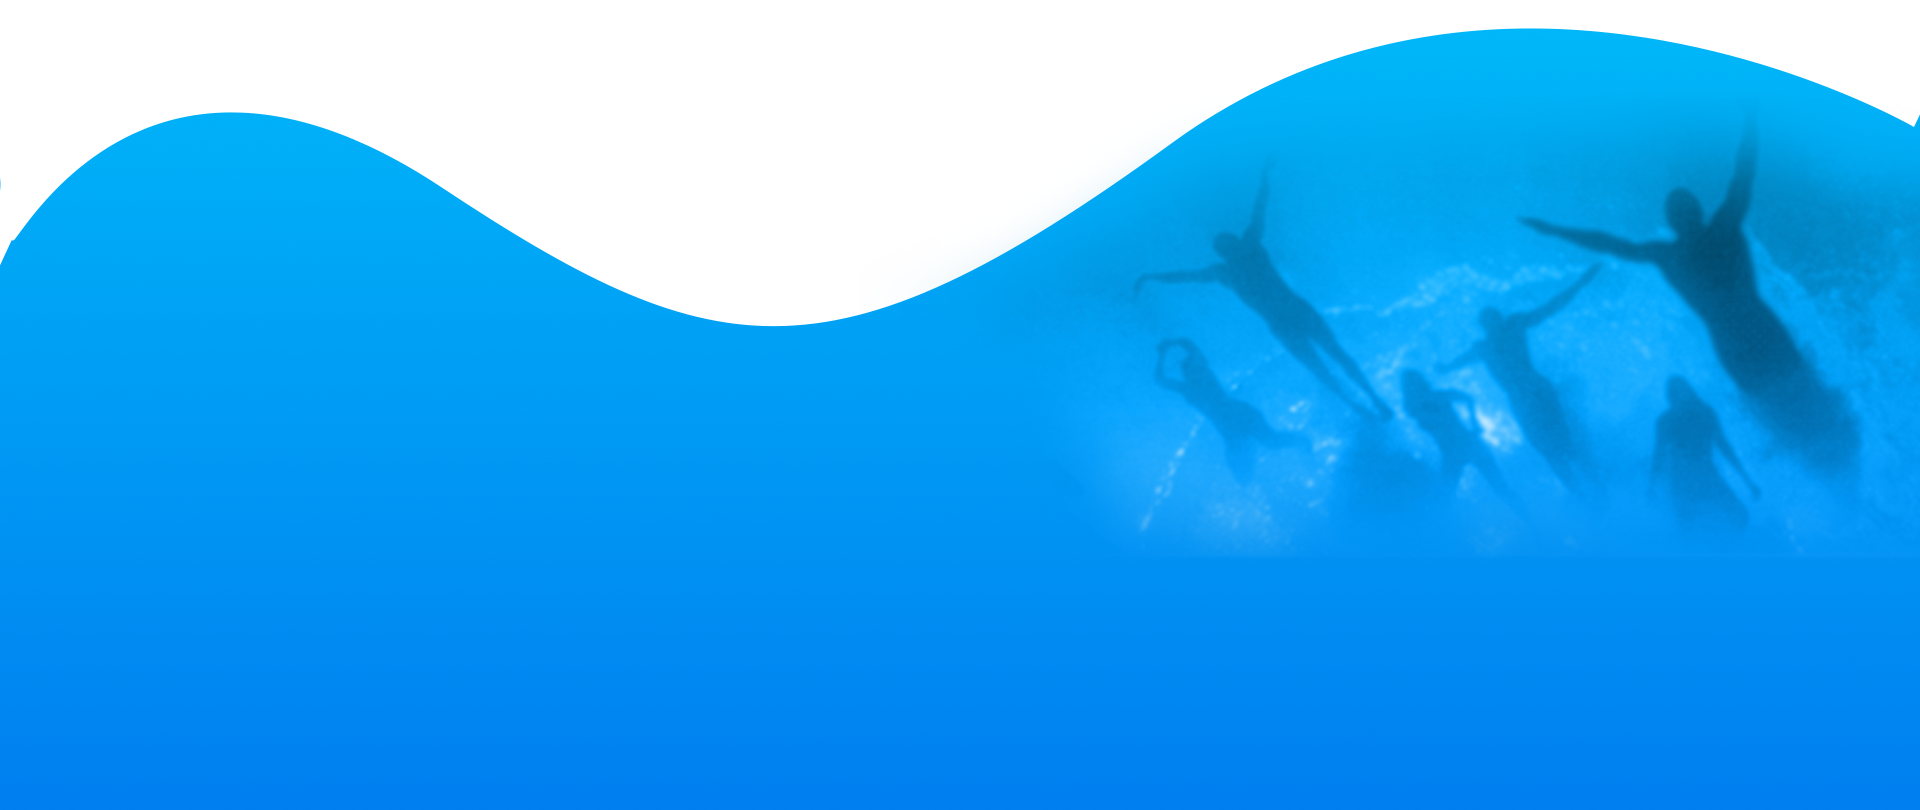
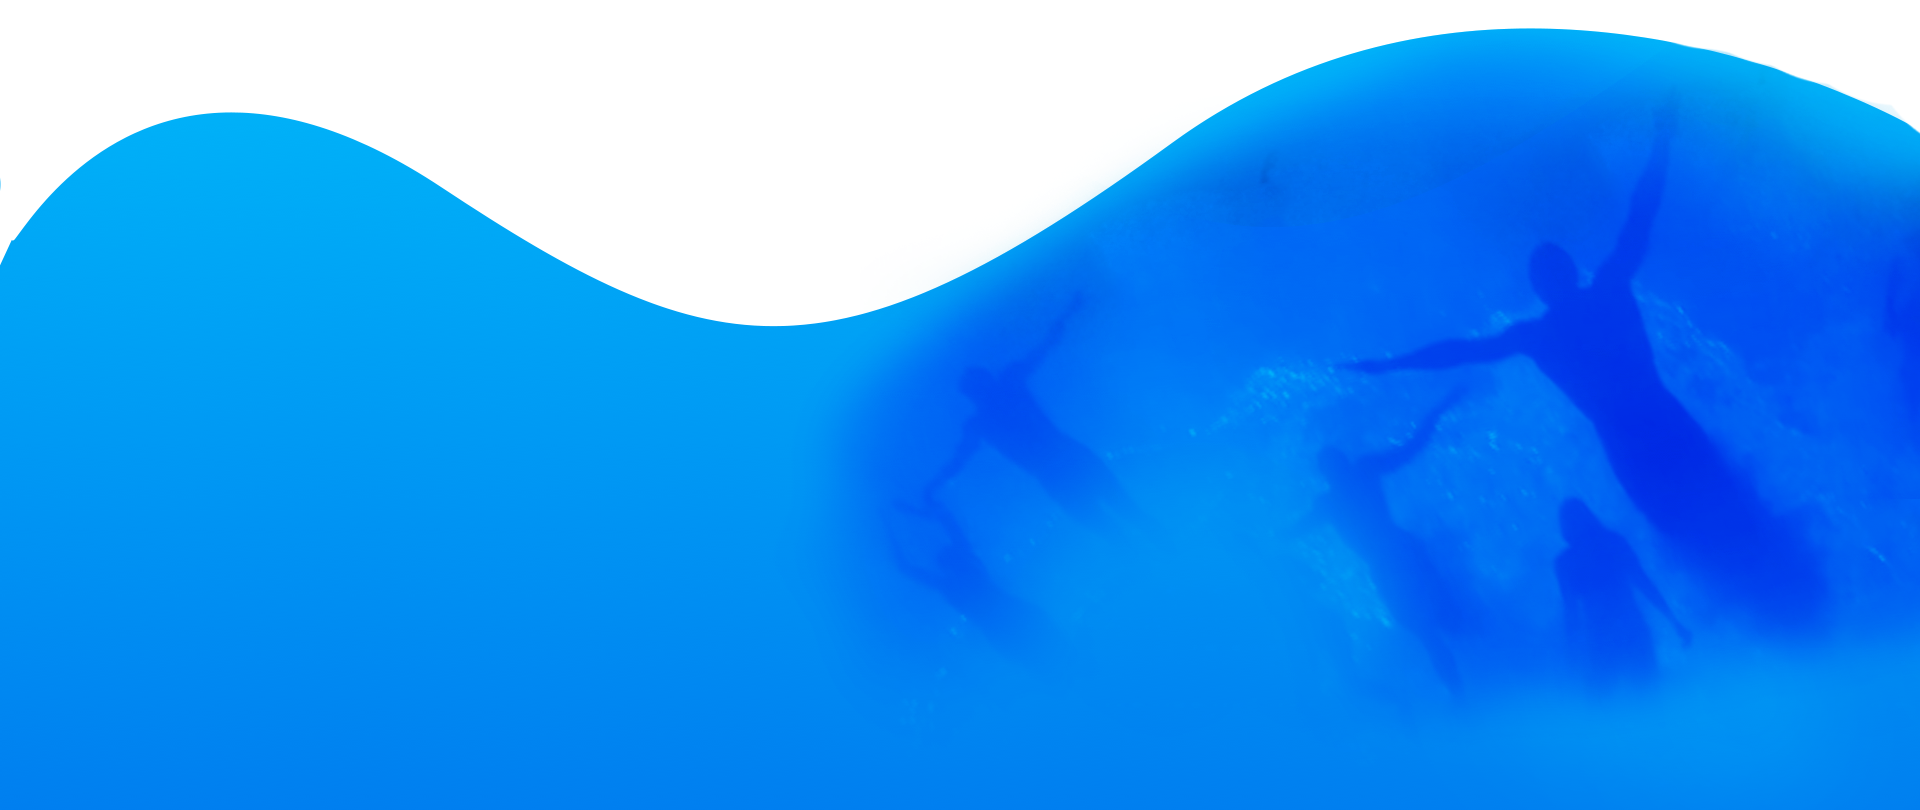
added pills for skills
little ui change for form
footer bg changed

diff --git a/src/components/form.jsx b/src/components/form.jsx
@@ -1,39 +1,104 @@
 import React from 'react';
 import { Button,  Form, FormGroup, Label, Input, FormText,Col } from 'reactstrap';
+import FontAwesomeIcon from 'react-fontawesome'
+
 import './style/style.css';
 import './style/form.css';
 class RegistrationForm extends React.Component {
-  
+  constructor(props) {
+    super(props);
+
+    this.state = {
+      items: [],
+      focused: false,
+      input: ''
+    };
+
+    this.handleInputChange = this.handleInputChange.bind(this);
+    this.handleInputKeyDown = this.handleInputKeyDown.bind(this);
+    this.handleRemoveItem = this.handleRemoveItem.bind(this);
+  }
+
+handleInputChange(evt) {
+    this.setState({ input: evt.target.value });
+  }
+
+  handleInputKeyDown(evt) {
+    if ( evt.keyCode === 13 ) {
+      const {value} = evt.target;
+      
+      this.setState(state => ({
+        items: [...state.items, value],
+        input: ''
+      }));
+    }
+
+    if ( this.state.items.length && evt.keyCode === 8 && !this.state.input.length ) {
+      this.setState(state => ({
+        items: state.items.slice(0, state.items.length - 1)
+      }));
+    }
+  }
+
+  handleRemoveItem(index) {
+    return () => {
+      this.setState(state => ({
+        items: state.items.filter((item, i) => i !== index)
+      }));
+    }
+  }
+
   render() {
+    
     return (
-       <Form>
+       <Form className="custom-form">
         <FormGroup row>
-{/*          <Label for="exampleEmail" sm={2}>Name</Label>
-*/}          <Col sm={10}>
-            <Input type="text" name="email" id="firstName" className="input-line" placeholder="YOUR COOL NAME" />
+{/*          <Label for="exampleEmail" sm={2} className="label">Name</Label>
+*/}          <Col sm={6}>
+            <Input type="text" name="firstName" id="firstName" className="input-line" placeholder="YOUR COOL NAME" />
+          </Col>
+          <Col sm={6}>
+            <Input type="text" name="lastName" id="lastName" className="input-line" placeholder="Last Name? not nessesary though" />
           </Col>
         </FormGroup>
         <FormGroup row>
-{/*          <Label for="examplePassword" sm={2}>Last Name</Label>
-*/}          <Col sm={10}>
-            <Input type="text" name="password" id="lastName" className="input-line" placeholder="Last Name? not nessesary though" />
-          </Col>
+{/*          <Label for="examplePassword" sm={2} className="label">Last Name</Label>
+*/}          
         </FormGroup>
         <FormGroup row>
-          <Label for="exampleSelect" sm={2}>Gender</Label>
-          <Col sm={10}>
-<select name="carlist" form="carform">
-  <option value="volvo">Volvo</option>
-  <option value="saab">Saab</option>
-  <option value="opel">Opel</option>
-  <option value="audi">Audi</option>
-</select>          </Col>
+{/*          <Label for="genderSelect" sm={2}>Gender</Label>
+*/}           <Col sm={6}>
+                <select name="gender" className="btn grad-select">
+                  <option value="Male">Male</option>
+                  <option value="Female">Female</option>
+                  <option value="Gay">Gay</option>
+                  <option value="Bi">Bi</option>
+                </select>          
+              </Col>
+              <Col sm={6}>
+                <Input type="text" name="age" id="age" className="input-line" placeholder="Tell me how old are you?" />
+              </Col>
         </FormGroup>
         <FormGroup row>
-          <Label for="exampleSelectMulti" sm={2}>Select Multiple</Label>
+        <label>
+        <ul className="tag-container">
+          {this.state.items.map((item, i) => 
+            <li key={i} className="tag-pill" onClick={this.handleRemoveItem(i)}>
+              {item}
+              <span className="close-pill">x  <FontAwesomeIcon icon="times" /> </span>
+            </li>
+          )}
+          <input
+            value={this.state.input}
+            onChange={this.handleInputChange}
+            onKeyDown={this.handleInputKeyDown} 
+            className="pill-input" />
+        </ul>
+      </label>
+          {/*<Label for="exampleSelectMulti" sm={2}>Select Multiple</Label>
           <Col sm={10}>
             <Input type="select" name="selectMulti" id="exampleSelectMulti" multiple />
-          </Col>
+          </Col>*/}
         </FormGroup>
         <FormGroup row>
           <Label for="exampleText" sm={2}>Text Area</Label>
@@ -84,15 +149,16 @@ class RegistrationForm extends React.Component {
               </Label>
             </FormGroup>
           </Col>
-        </FormGroup>
+        </FormGroup>{/*
         <FormGroup check row>
           <Col sm={{ size: 10, offset: 2 }}>
             <Button>Submit</Button>
           </Col>
-        </FormGroup>
+        </FormGroup>*/}
       </Form>
     );
   }
 }
+
 
 export default RegistrationForm;

diff --git a/src/components/style/form.css b/src/components/style/form.css
@@ -1,4 +1,6 @@
-
+.custom-form{
+  padding: 30px;
+}
 ::-webkit-input-placeholder {
   color: rgba(255, 255, 255, 0.65);
   font-size: 2vh;
@@ -11,10 +13,56 @@
 }
 
 .input-line {
-  background: none;
-  border:none;
-  box-shadow: none;
-  border-radius: none;
-  border-bottom: rgba(0,0,0,0.5) solid 1.5px;
+  font-size: 18px;
+  padding: 10px 10px 10px 5px;
+  -webkit-appearance: none;
+  display: block;
+  color: #636363;
+  width: 100%;
+  border: none;
+  border-radius: 0;
   outline: none;
+  border-bottom: 1px solid #757575;
+}
+.input-line:focus{
+  outline: none;
+  box-shadow: none;
+}
+.tag-conatiner{
+  width: 100%;
+}
+.pill-input{
+  width: 100%;
+  background-color: #e6e6e6;
+  padding: 10px 10px 10px 5px;
+  -webkit-appearance: none;
+  display: block;
+  color: #636363;
+  border: none;
+  border-radius: 0;
+  outline: none;
+  border-bottom: 1px solid #757575;
+}
+.tag-pill{
+
+background-image: linear-gradient(-225deg, #9EFBD3 0%, #57E9F2 48%, #45D4FB 100%);  border-radius: 10px;
+  border-radius: 25px;
+  padding: 5px;
+  padding-left: 20px;
+  margin: 10px;
+  font-size: 1.2em;
+  text-decoration: none;
+  color: #1c1c1c;
+  transition: 1s;
+  -webkit-box-shadow: 0px 10px 52px -13px rgba(0,0,0,0.75);
+  -moz-box-shadow: 0px 10px 52px -13px rgba(0,0,0,0.75);
+  box-shadow: 0px 10px 52px -13px rgba(0,0,0,0.75);
+  display: inline-block;
+  margin-right:5px;
+  cursor: pointer;
+}
+.close-pill{
+  color: #1c1c1c;
+  font-size:1.2em;
+  padding-left: 25px;
 }

diff --git a/src/components/Home.jsx b/src/components/Home.jsx
@@ -130,8 +130,7 @@ export default class Home extends React.Component {
     </Container>
     <Container>
         <Jumbotron className="bg-grad-blue s-cards text-center mt-5">
-          <h2>DING DING DING it’s time for registraion!</h2>
-          <h3>Impossibility is a Registration away from reality.</h3>
+        <h2>Impossibility is a Registration away from reality.</h2>
           <p>Register for the first social media website that literally born in  a fandom !!</p>
 
         <Button className="btn btn-grad-blue" onClick={this.handleShow}>
@@ -161,7 +160,7 @@ RrrrRRegister        </Button>
           <Modal.Header closeButton  className="s-cards bg-grad-green">
             <Modal.Title>
             <div text-center className="grad-text">
-              <h3>JOIN THE DARK SIDE NOW</h3>
+              <h3> "In the end, we will all be judged by the usernames of our profile."</h3>
             </div>
             </Modal.Title>
           </Modal.Header>

diff --git a/src/components/style/style.css b/src/components/style/style.css
@@ -54,7 +54,28 @@ background-image: linear-gradient(45deg, #ee9ca7 0%, #ffdde1 100%); border-radiu
 -moz-box-shadow: 0px 10px 52px -13px rgba(0,0,0,0.75);
 box-shadow: 0px 10px 52px -13px rgba(0,0,0,0.75);
 }
+.grad-select{
+      background-image: linear-gradient(-20deg, #fc6076 0%, #ff9a44 100%);
+  width: 100%;
+  border-radius: 25px;
+  padding-left:20px;
+  padding-right: 20px;
+  font-size: 1.2em;
+  text-decoration: none;
+  color: white;
+  transition: 1s;
+  -webkit-box-shadow: 0px 10px 52px -13px rgba(0,0,0,0.75);
+-moz-box-shadow: 0px 10px 52px -13px rgba(0,0,0,0.75);
+box-shadow: 0px 10px 52px -13px rgba(0,0,0,0.75);
 
+}
+
+.grad-select option{
+  color: #1c1c1c;
+  background-color:white;
+  border:none;
+  outline: none;
+}
 .bg-grad-blue{
 background-image: linear-gradient(-225deg, #9EFBD3 0%, #57E9F2 48%, #45D4FB 100%);  border-radius: 10px;
 
